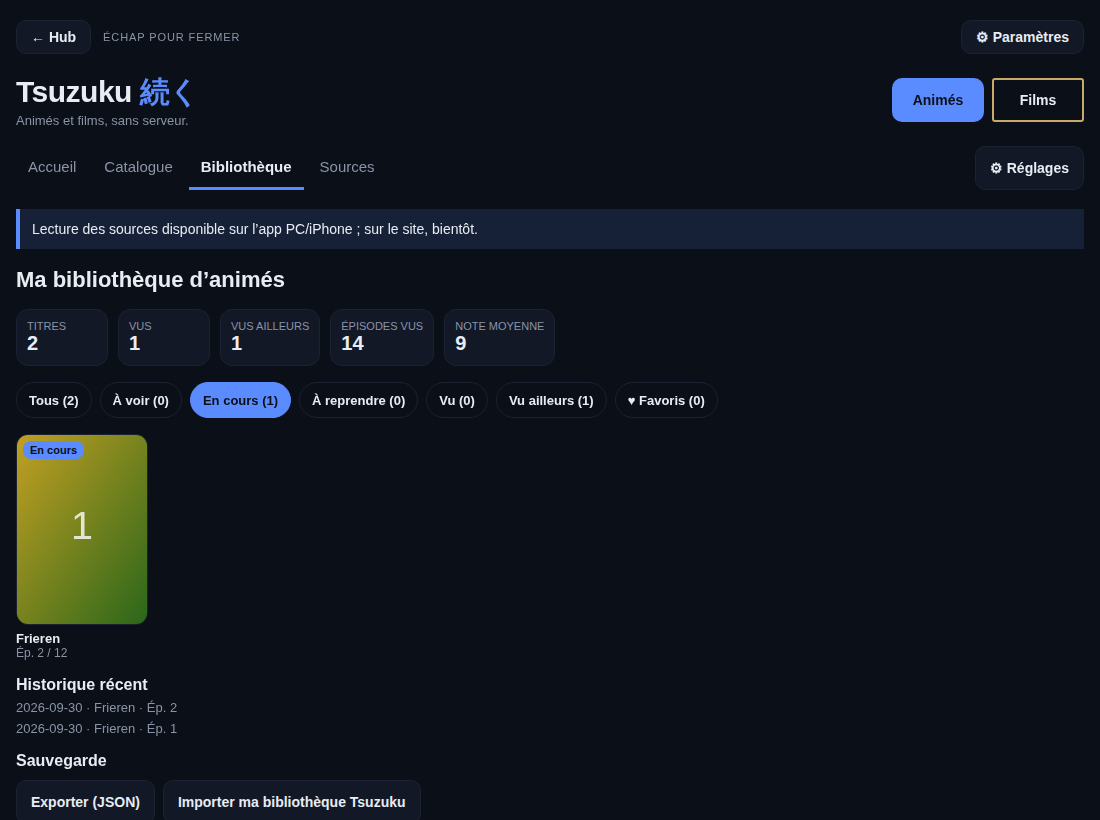
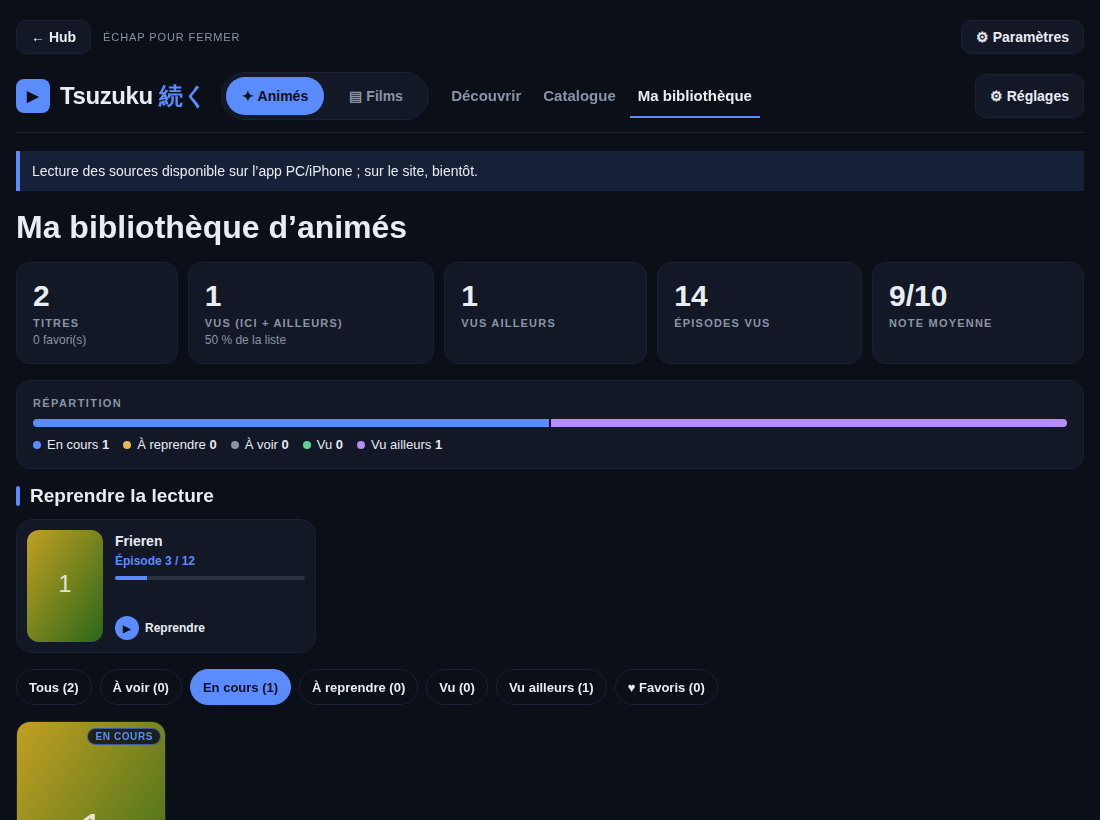
E2E Tsuzuku à jour (Administration › Tsuzuku, pas d'onglet Sources, pied de page), captures après, fondu du bandeau
Claude-Session: https://claude.ai/code/session_01S483ySQsPizWULzXosJ4cc

diff --git a/src/tsuzuku/app/Accueil.tsx b/src/tsuzuku/app/Accueil.tsx
@@ -41,7 +41,10 @@ function BandeauUne({ une, entree }: { une: Une; entree: Entree | null }) {
     <View testID="tsuzuku-une" accessibilityLabel="À la une" style={{ borderRadius: Math.max(theme.rayonGrand, 12), overflow: 'hidden', borderWidth: 1, borderColor: theme.ligne, backgroundColor: theme.surface, minHeight: large ? 380 : 330, justifyContent: 'flex-end' }}>
       {visuel ? <Image source={{ uri: visuel }} accessibilityIgnoresInvertColors style={{ position: 'absolute', top: 0, left: 0, right: 0, bottom: 0, opacity: 0.85 }} resizeMode="cover" /> : null}
       {/* Voiles : le texte reste lisible sur n'importe quelle image, dans les 8 thèmes. */}
-      <View pointerEvents="none" style={{ position: 'absolute', top: 0, bottom: 0, left: 0, width: large ? '62%' : '100%', backgroundColor: teinteTransparente(theme.fond, 0.72) }} />
+      {/* Fondu par paliers (pas de dégradé natif) : plus opaque à gauche, sous le texte. */}
+      {(large ? ['45%', '60%', '75%', '90%'] : ['100%']).map(l => (
+        <View key={l} pointerEvents="none" style={{ position: 'absolute', top: 0, bottom: 0, left: 0, width: l as `${number}%`, backgroundColor: teinteTransparente(theme.fond, large ? 0.22 : 0.62) }} />
+      ))}
       <View pointerEvents="none" style={{ position: 'absolute', top: 0, bottom: 0, left: 0, right: 0, backgroundColor: teinteTransparente(theme.fond, 0.25) }} />
       <View pointerEvents="none" style={{ position: 'absolute', left: 0, right: 0, bottom: 0, height: '45%', backgroundColor: teinteTransparente(theme.fond, 0.35) }} />
       <View style={{ padding: large ? 36 : 20, gap: 12, maxWidth: 680 }}>

diff --git a/src/tsuzuku/app/Racine.tsx b/src/tsuzuku/app/Racine.tsx
@@ -195,7 +195,7 @@ export function TsuzukuEcrans({ theme: themeHub, onRetour, onParametres, context
                   );
                 })}
               </View>
-              {onParametres ? <Bouton titre="⚙ Réglages" libelle="Réglages de Tsuzuku (Paramètres)" onPress={() => onParametres('tsuzuku')} testID="tsuzuku-reglages" style={{ marginLeft: 'auto' }} /> : null}
+              {onParametres ? <Bouton titre={large ? '⚙ Réglages' : '⚙'} libelle="Réglages de Tsuzuku (Paramètres)" onPress={() => onParametres('tsuzuku')} testID="tsuzuku-reglages" style={{ marginLeft: 'auto' }} /> : null}
             </View>
             {!s.lectureSources ? <Avis texte={MESSAGE_SITE} testID="tsuzuku-site" /> : null}
             <View testID={`ecran-${route.t}`}>{ecran}</View>
